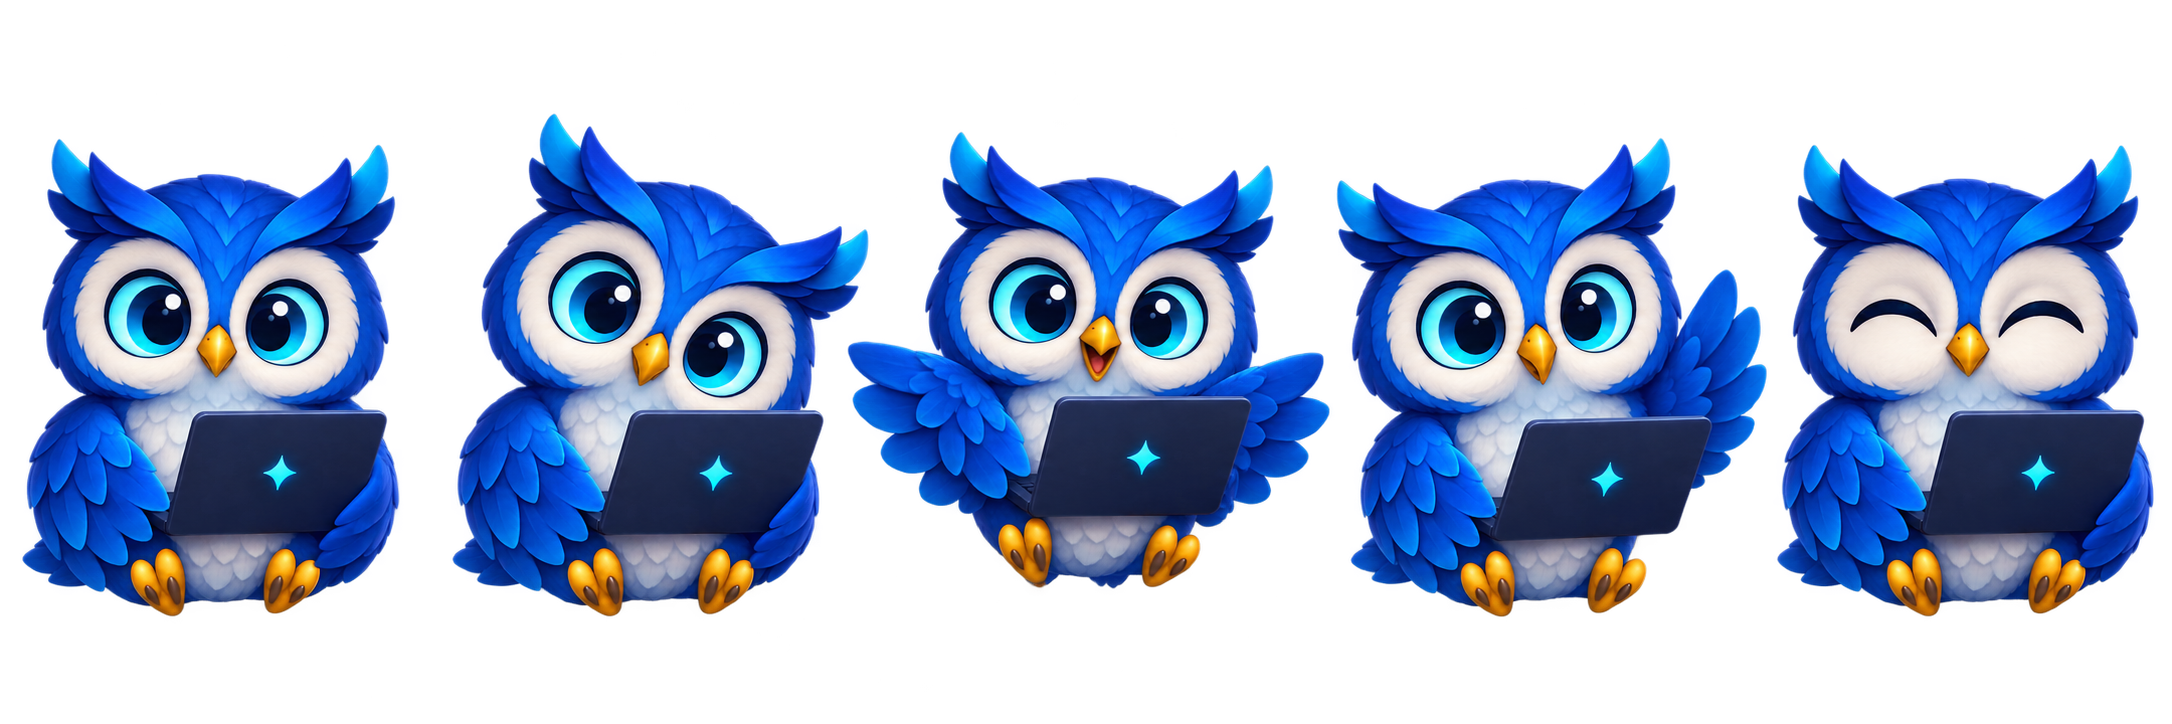
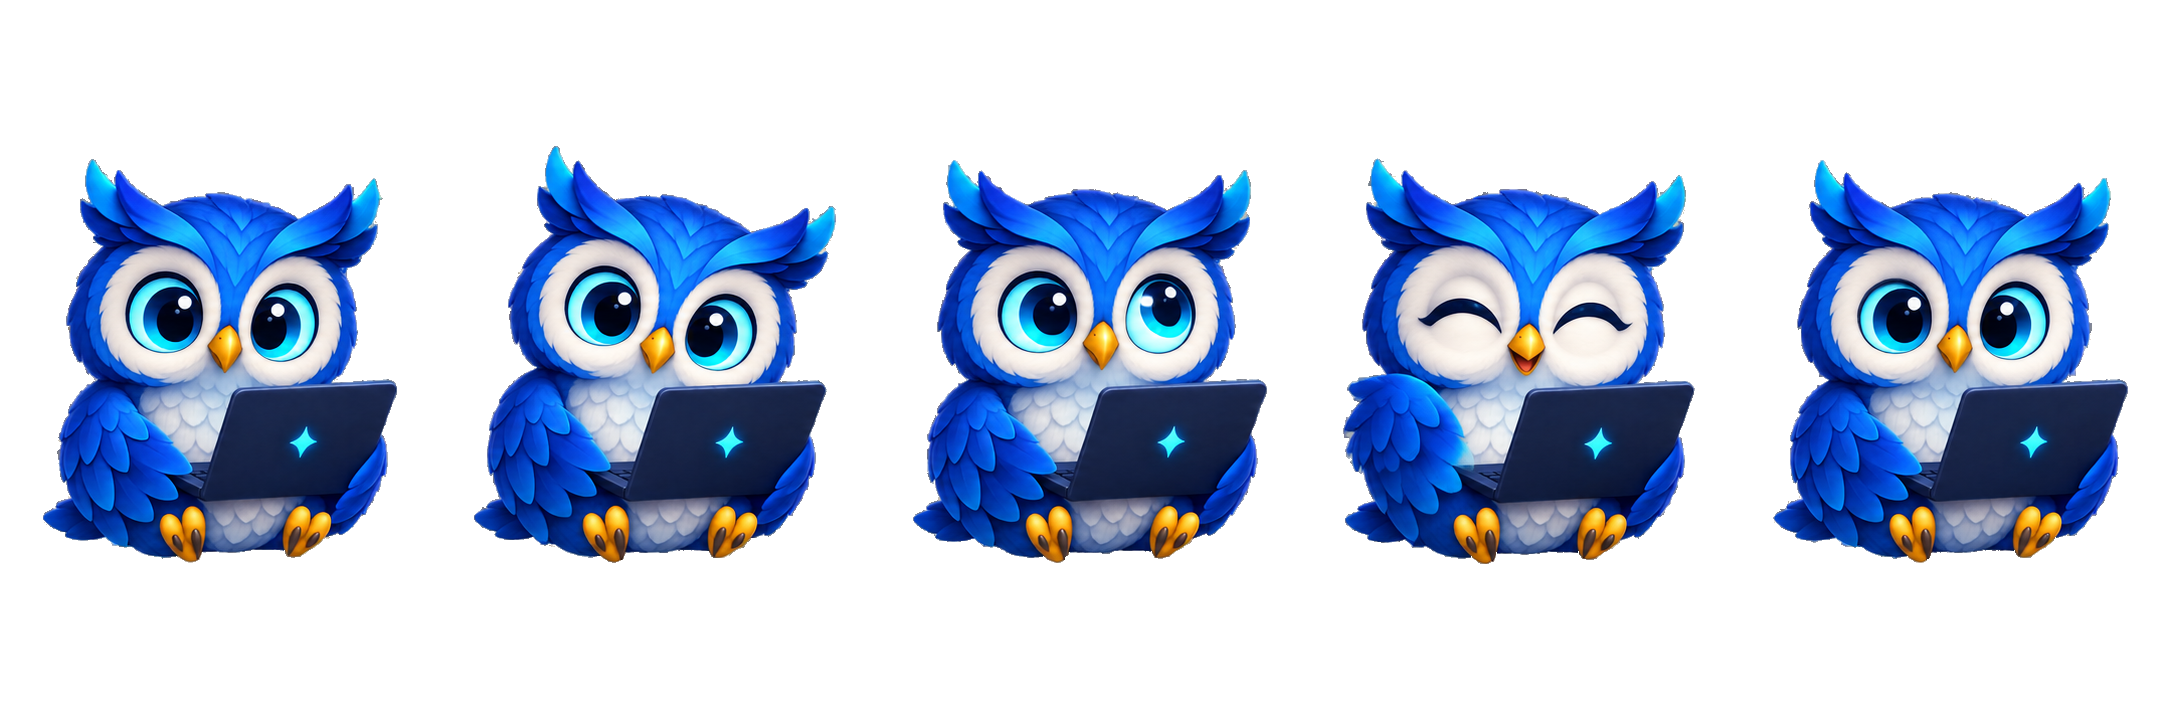
fix: refine owl animation naturalness

diff --git a/ai_desktop/ui/float_button.py b/ai_desktop/ui/float_button.py
@@ -438,6 +438,12 @@ class FloatButton(QPushButton):
         if state == "error":
             shake = (0.0, -2.2, 2.2, -1.5, 1.5, -0.7, 0.7, 0.0)
             return (shake[min(self._animation_phase, len(shake) - 1)], 0.0, 0.0, 1.0)
+        if self._pet_idle_frames:
+            # The generated frames carry the visible expression changes. Keep
+            # the body motion almost still so frame changes do not look like a
+            # cutout jumping between poses.
+            return (0.0, wave * 0.35, 0.0, 1.0 + abs(wave) * 0.001)
+
         idle_phase = self._animation_phase % 96
         # Five low-key idle clips.  The longer breathing intervals leave ample
         # quiet time between the little observations and grooming gestures.
@@ -465,16 +471,39 @@ class FloatButton(QPushButton):
         """Select a generated frame while keeping the original asset as fallback."""
         if state == "idle":
             if self._hovered and self._pet_hover_frames:
-                return self._pet_hover_frames[min(self._hover_phase // 10, _PET_FRAME_COUNT - 1)]
+                return self._pet_hover_frames[min(self._hover_phase // 4, _PET_FRAME_COUNT - 1)]
             if self._pet_idle_frames:
-                return self._pet_idle_frames[min(self._animation_phase // 20, _PET_FRAME_COUNT - 1)]
+                phase = self._animation_phase % 96
+                frame_index = 0
+                if 24 <= phase < 26:
+                    frame_index = 1  # blink
+                elif 26 <= phase < 28:
+                    frame_index = 2  # open eyes after blink
+                elif 48 <= phase < 53:
+                    frame_index = 3  # brief glance
+                elif 53 <= phase < 55:
+                    frame_index = 4  # return from glance
+                return self._pet_idle_frames[frame_index]
         return self._pet_content
 
     def _hover_motion(self) -> tuple[float, float, float, float]:
         """Return one of five friendly hover clips for the idle pet."""
         if self._reduce_motion or not self._hovered:
             return (0.0, 0.0, 0.0, 1.0)
-        phase = self._hover_phase % 50
+        phase = min(self._hover_phase, 20)
+        if self._pet_hover_frames:
+            if phase < 4:
+                greeting = math.sin(phase * math.pi / 3)
+                return (0.0, -greeting * 0.7, -greeting * 0.35, 1.0 + greeting * 0.008)
+            if phase < 8:
+                focus = math.sin((phase - 4) * math.pi / 3)
+                return (0.0, -focus * 0.45, focus * 0.65, 1.0)
+            if phase < 12:
+                return (0.0, -0.35, 0.0, 1.004)
+            if phase < 16:
+                wave = math.sin((phase - 12) * math.pi / 3)
+                return (wave * 0.25, 0.0, -wave * 0.45, 1.0)
+            return (0.0, 0.0, 0.0, 1.0)
         if phase < 10:  # 抬头致意
             greeting = math.sin(phase * math.pi / 9)
             return (0.0, -greeting * 2.8, -greeting * 1.2, 1.0 + greeting * 0.028)
@@ -493,9 +522,9 @@ class FloatButton(QPushButton):
 
     def _draw_hover_halo(self, painter: QPainter, state: str, scale: float) -> None:
         """Draw a quiet hover halo without changing task states."""
-        if state != "idle" or not self._hovered or self._reduce_motion:
+        if state != "idle" or not self._hovered or self._reduce_motion or self._pet_hover_frames:
             return
-        phase = self._hover_phase % 50
+        phase = min(self._hover_phase, 20)
         if not 10 <= phase < 30:
             return
         pulse = (math.sin((phase - 10) * math.pi / 10) + 1.0) / 2.0
@@ -557,7 +586,7 @@ class FloatButton(QPushButton):
         # room for five relaxed idle clips before the sequence repeats.
         self._animation_phase = (self._animation_phase + 1) % 96
         if self._hovered and self._effective_state() == "idle":
-            self._hover_phase = (self._hover_phase + 1) % 50
+            self._hover_phase = min(self._hover_phase + 1, 20)
         if not self._pet_enabled:
             if self._responding:
                 self.setWindowOpacity(

diff --git a/tests/test_float_button.py b/tests/test_float_button.py
@@ -269,22 +269,20 @@ class TestFloatButtonState:
         button.set_reduce_motion(True)
         assert button._motion_for_state("working") == (0.0, 0.0, 0.0, 1.0)
 
-    def test_idle_cycle_has_five_distinct_clips(self, button):
-        phases = (3, 27, 43, 60, 78)
+    def test_idle_sprite_cycle_stays_subtle(self, button):
+        phases = (3, 24, 49, 54, 78)
         motions = []
         for phase in phases:
             button._animation_phase = phase
             motions.append(button._motion_for_state("idle"))
 
-        assert len(set(motions)) == len(phases)
-        assert motions[1][2] != 0  # 左右观察
-        assert motions[2][3] > 1  # 舒展
-        assert motions[3][1] > motions[0][1]  # 轻点头
-        assert motions[4][0] != 0  # 整理羽毛
+        assert all(abs(motion[2]) == 0 for motion in motions)
+        assert all(abs(motion[1]) <= 0.35 for motion in motions)
+        assert all(motion[3] <= 1.001 for motion in motions)
 
     def test_hover_cycle_has_five_friendly_clips(self, button):
         button._hovered = True
-        phases = (4, 14, 24, 34, 44)
+        phases = (2, 6, 10, 14, 18)
         motions = []
         for phase in phases:
             button._hover_phase = phase
@@ -293,9 +291,9 @@ class TestFloatButtonState:
         assert len(set(motions)) == len(phases)
         assert motions[0][1] < 0  # 致意
         assert motions[1][2] != 0  # 专注侧倾
-        assert motions[2][3] > 1  # 开心跳跃
+        assert motions[2][1] < 0  # 开心回应
         assert motions[3][0] != 0  # 轻挥翅膀
-        assert motions[4][1] < 0  # 回望
+        assert motions[4] == (0.0, 0.0, 0.0, 1.0)  # 回到稳定姿态
 
         button.set_reduce_motion(True)
         assert button._hover_motion() == (0.0, 0.0, 0.0, 1.0)
@@ -315,13 +313,22 @@ class TestFloatButtonState:
         hover_sizes = {(frame.width(), frame.height()) for frame in button._pet_hover_frames}
         assert len(idle_sizes) == 1
         assert len(hover_sizes) == 1
+        assert all(frame.toImage().pixelColor(0, 0).alpha() == 0 for frame in button._pet_idle_frames)
+        assert all(frame.toImage().pixelColor(0, 0).alpha() == 0 for frame in button._pet_hover_frames)
         assert button._pet_for_state("working") == button._pet_content
 
-        button._animation_phase = 45
+        button._animation_phase = 27
         assert button._pet_for_state("idle") == button._pet_idle_frames[2]
         button._hovered = True
-        button._hover_phase = 31
+        button._hover_phase = 13
         assert button._pet_for_state("idle") == button._pet_hover_frames[3]
+
+    def test_hover_animation_finishes_and_holds_last_frame(self, button):
+        button._hovered = True
+        button._hover_phase = 99
+        button._advance_animation()
+        assert button._hover_phase == 20
+        assert button._pet_for_state("idle") == button._pet_hover_frames[4]
 
     def test_new_semantic_state_restarts_animation(self, button):
         button._animation_phase = 7

diff --git a/docs/开发进度.md b/docs/开发进度.md
@@ -32,7 +32,7 @@
 | F13.3 | 已完成（代码与自动化验收） | 436 项全量测试；最近动作、选区后台执行、无选区回退和忙碌保护通过 |
 | F13.4 | 已完成（代码与自动化验收） | 442 项全量测试；减少动画、三档尺寸、隐藏计时器和离屏资源采样通过 |
 | F13.5 | 已完成（代码与自动化验收） | 482 项全量测试；五态语义动作、减少动画和宠物右键截图通过 |
-| F13.6 | 已完成（代码与自动化验收） | 486 项全量测试；空闲/悬停各五帧精灵循环、任务状态隔离和减少动画回归通过 |
+| F13.6 | 已完成（代码与自动化验收） | 487 项全量测试；自然待机/一次性悬停五帧精灵、任务状态隔离和减少动画回归通过 |
 | F02.1 | 已完成（技术/冻结验证） | 446 项全量测试；Vision 真实识别、运行时语言、93MB 候选包和冒烟通过 |
 | F02.2 | 已完成（代码与自动化验收） | 451 项全量测试；真实 Vision 服务路径、后台任务、取消与过期结果保护通过 |
 | F02.3 | 已完成（代码、自动化与冻结验收） | 463 项全量测试；编辑预览离屏渲染；93MB 候选包签名与冒烟通过 |
@@ -943,5 +943,12 @@
 验证：
 
 - 生成五帧离屏样张，确认呼吸、观察、舒展、点头和悬停致意在透明背景中没有裁切。
-- 新增五组待机、五组悬停、精灵资源加载、任务状态隔离与减少动画测试。定向宠物/发布测试 → **30 passed**；全量 `python3 -m pytest tests/ -q` → **486 passed, 2 warnings in 14.11s**；`ruff`、Python 编译和差异检查通过。
-- 稳定签名候选已重建并冒烟通过：Vision/CoreML 与两张精灵图资源检查、深度签名验证、schema 3 启动与 schema 0 升级/备份均通过，包体约 96MB。
+- 新增五组待机、五组悬停、精灵资源加载、任务状态隔离与减少动画测试。定向宠物/发布测试 → **26 passed**；全量 `python3 -m pytest tests/ -q` → **487 passed, 2 warnings in 14.34s**；`ruff`、Python 编译和差异检查通过。
+- 稳定签名候选已重建并冒烟通过：Vision/CoreML 与两张精灵图资源检查、深度签名验证、schema 3 启动与 schema 0 升级/备份均通过，包体约 98MB。
+
+## 2026-09-13 23:45 — F13.6 精灵帧自然度修订
+
+- 真实离屏检查发现首版精灵图存在两类问题：帧边界带入相邻帧的蓝色碎片，整只猫头鹰的姿态变化过大，连续播放像切换贴纸。
+- 重新生成并清理待机/悬停两张五帧透明精灵图。待机帧锁定身体、笔记本和脚的位置，只保留眨眼、眼神变化；悬停帧锁定主体，只保留小幅侧倾、眼神、轻挥翅和开心表情。棋盘格背景已转换为真正 alpha，不会进入应用。
+- 动画时序改为“稳定待机 → 偶发微动作”和“悬停一次性回应 → 停在稳定姿态”；删除精灵帧下的大幅旋转、跳跃和持续光环，运行状态继续沿用原有动作。
+- 离屏复核确认 10 帧均无两侧残片、透明背景或明显跳位；新增悬停结束停帧回归。定向宠物/发布测试 **26 passed**；全量测试和候选包将在本工作包结束前更新。

diff --git a/docs/README.md b/docs/README.md
@@ -38,7 +38,7 @@
 - 初始基线：本地 `v1.4.0` / HEAD `8f1465d`，195 项测试通过、2 条收集警告，ruff 通过。
 - 基线工作区：开始开发时有 10 个已跟踪文件的修改及旧发布脚本；既有代码修改已保留，旧脚本未纳入本轮提交。
 - 已完成：现状评估、工程/产品规划、D00–D12、F03、F01、F13.1–F13.6 和 F02.1–F02.5。桌面宠物与应用图标已统一为原创蓝色猫头鹰；空闲与悬停各有五组低频互动，读取、生成、完成和失败继续使用独立语义动作；OCR 已具备异步识别、编辑预览、版面恢复，以及仅文字/文字加原图的明确选择。
-- 最新验证：486 项测试通过、2 条原有收集警告；对话窗 UI 已在 400px/440px 与浅色/深色离屏渲染中通过，宠物五态样张、待机/悬停五帧精灵、减少动画和右键截图行为通过自动化。`1.5.0` arm64 `.app` 使用本机稳定证书，Vision/CoreML、两张宠物精灵图、深度签名、schema 3 启动与 schema 0 升级/备份冒烟均通过，体积约 96MB。真实桌面已验证猫头鹰启动、Apple Vision OCR 及两种附件选择；10 分钟空闲平均 CPU 约 1.20%、RSS 稳定在 109MB。
+- 最新验证：487 项测试通过、2 条原有收集警告；对话窗 UI 已在 400px/440px 与浅色/深色离屏渲染中通过，宠物五态样张、待机/悬停五帧精灵、减少动画和右键截图行为通过自动化。`1.5.0` arm64 `.app` 使用本机稳定证书，Vision/CoreML、两张宠物精灵图、深度签名、schema 3 启动与 schema 0 升级/备份冒烟均通过，体积约 98MB。真实桌面已验证猫头鹰启动、Apple Vision OCR 及两种附件选择；10 分钟空闲平均 CPU 约 1.20%、RSS 稳定在 109MB。
 - 待执行：F01 选区快捷动作和截图回传已通过真实快捷键与当前候选包验收；仍待完成亮暗/焦点、多屏/Spaces 和一轮固定任务使用记录。覆盖安装、Developer ID 签名和公证仍是发布前人工项。
 - 快捷动作使用：在输入框输入/粘贴文字后点击 ⚡，选择“翻译/解释/摘要/改写”；或在其他应用选中文字后按 `⌘⌃L`，再从动作面板选择。没有材料时按钮会禁用并显示说明，不再弹出“动作材料不能为空”。
 - 快捷动作执行后面板保持展开，输入框会清空并可立即处理下一段文字；点击“收起”、按 `Esc` 或发送普通消息时才收起面板。

diff --git a/docs/UI设计与优化计划-2026-09-13.md b/docs/UI设计与优化计划-2026-09-13.md
@@ -41,8 +41,8 @@
 ### UI-4：宠物与任务状态（基础动作与互动循环已完成）
 
 - 动画必须表达任务含义：读取时侧倾，生成时浮动并点亮电脑，成功时短暂弹跳，失败时轻微摇头。任务状态的动作保持稳定，不被悬停效果覆盖。
-- 空闲状态以五段低频循环呈现：呼吸、左右观察、舒展、轻点头和整理羽毛。各段之间有安静的呼吸间隔，不自动说话或弹出内容。
-- 鼠标停在空闲宠物上时以五段短循环回应：抬头致意、专注侧倾、柔和蓝色光环、开心跳跃和轻挥翅膀；移开时立即回到安静待机。眼神、翅膀和表情使用五帧透明精灵图，位移、旋转、缩放和光效继续作为补充。
+- 空闲状态以稳定待机为主，只在较长间隔中播放眨眼、短暂注视等微动作。各段之间有安静的呼吸间隔，不自动说话或弹出内容。
+- 鼠标停在空闲宠物上时播放一轮短回应：抬头、专注侧倾、轻微挥翅和开心表情，随后停在稳定姿态；移开时立即回到安静待机。眼神、翅膀和表情使用五帧透明精灵图，位移、旋转和缩放只做很小的补充。
 - 减少动画模式禁用所有位移、旋转、缩放和闪光，状态徽标仍保留，保证信息不因关闭动画而丢失。
 - 宠物的操作层级为：单击打开对话，拖动调整位置，右键可“截图到对话”或执行最近文字动作。忙碌时相关动作禁用，避免并发任务。
 - 下一步只验证“快捷翻译”、“截图识字”、“普通对话”三类任务的返回路径和主观打扰度。若真实使用仍需要更细的表情或翅膀动作，再制作独立多帧角色素材。

diff --git a/docs/新功能开发计划-2026-09-13.md b/docs/新功能开发计划-2026-09-13.md
@@ -86,7 +86,7 @@
 3. F13.3（已完成）：右键宠物提供最近快捷动作，单击仍打开对话；动作复用当前选区、F01 配置和后台结果气泡，不为每个动作新增全局快捷键。
 4. F13.4（已完成）：增加“减少动画”和小/中/大尺寸选项；隐藏后停止动画、结果状态和屏幕跟随计时器，并建立离屏资源基线。
 5. F13.5（已完成）：同一角色素材增加状态化身体动作：空闲呼吸、读取侧倾、生成浮动与电脑光晕、成功弹跳与闪光、失败轻微摇头；动作从状态切换起点重新开始。右键增加“截图到对话”，忙碌期间禁用，减少动画时只保留静态徽标。
-6. F13.6（已完成）：空闲状态使用五帧透明精灵图循环呼吸、眨眼、左右观察、舒展和整理羽毛；鼠标悬停使用五帧透明精灵图回应抬头致意、专注侧倾、蓝色光环、开心跳跃和轻挥翅膀。所有新增效果仅作用于空闲宠物，不改变读取、生成或结果状态，并保留旧角色图回退。
+6. F13.6（已完成）：空闲状态使用五帧透明精灵图，以稳定待机为主，偶发眨眼和短暂注视；鼠标悬停使用五帧透明精灵图完成一轮抬头、侧倾、轻挥翅和开心回应后停住。所有新增效果仅作用于空闲宠物，不改变读取、生成或结果状态，并保留旧角色图回退。
 
 **验收**：点击、拖动、跨 Spaces、窗口隐藏、重启位置、紧凑回退与状态切换均可恢复；闲置 10 分钟没有持续 CPU 峰值；不因透明区域遮挡明显桌面操作。
 
